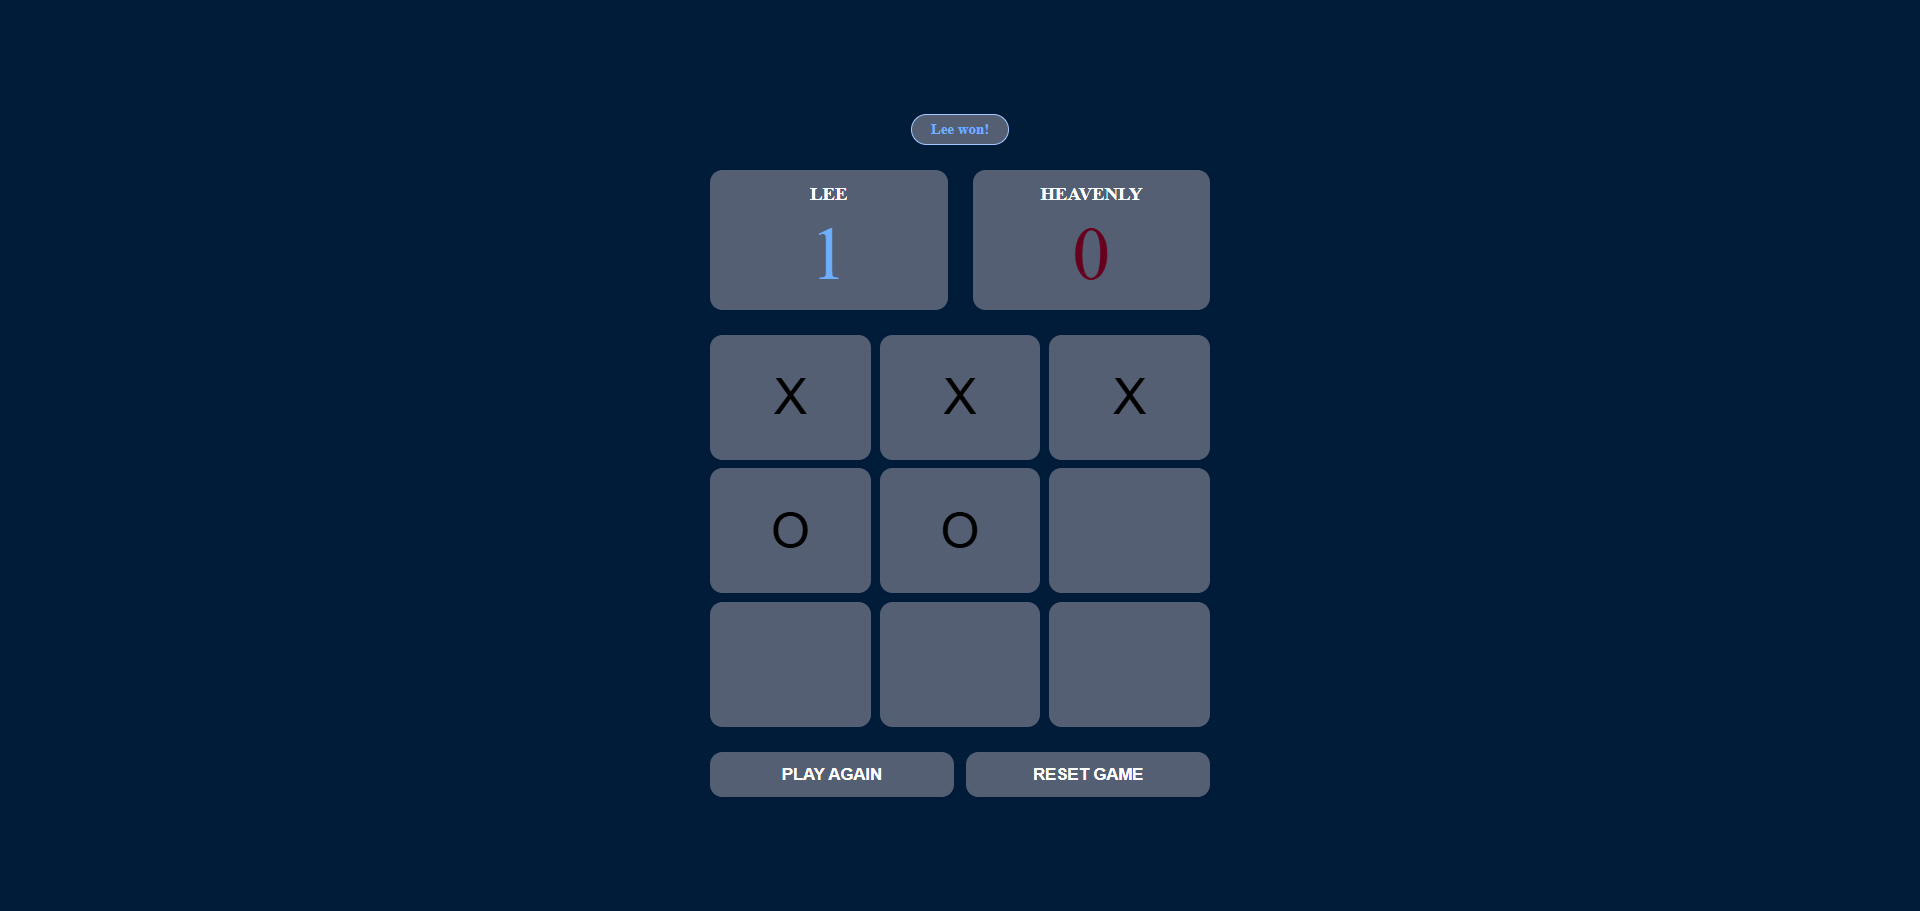
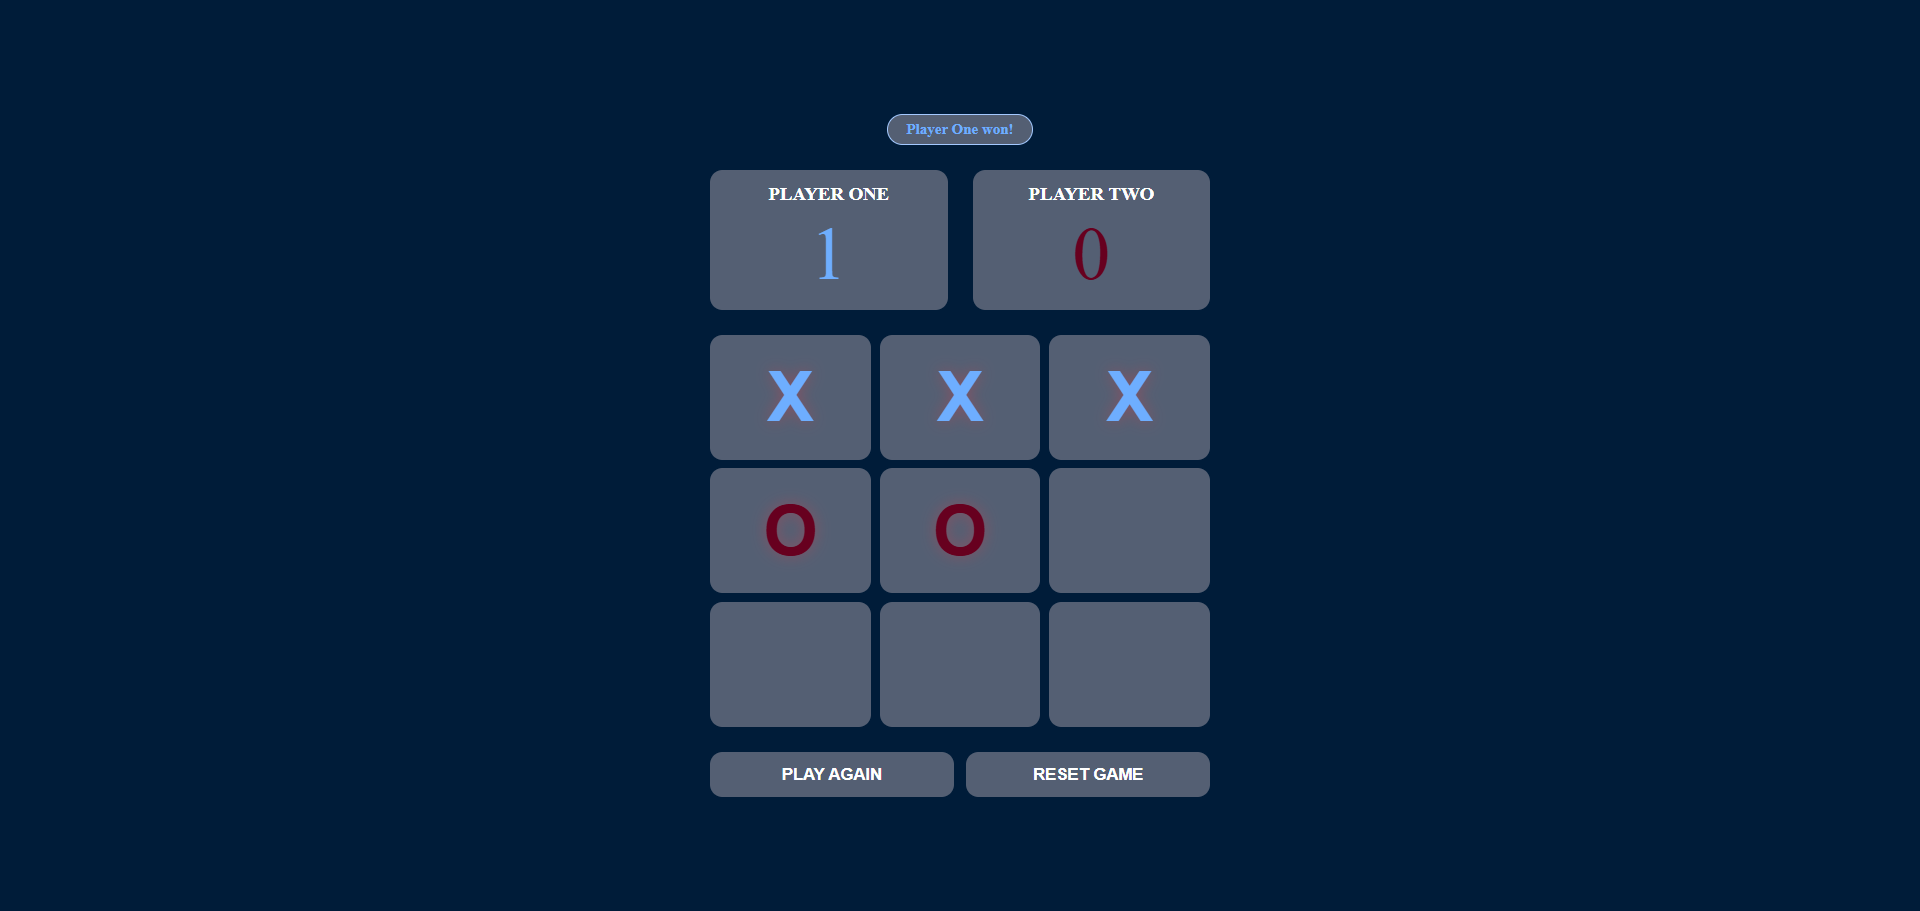
docs: Update link with vercel and project image

diff --git a/README.md b/README.md
@@ -5,7 +5,7 @@ A project where I can use my recently gained knowledge about closures, factory f
 ![Project Image](/image.png)
 
 ## Live Page
-[Live Page](https://markleejanalipio.github.io/tic-tac-toe/)
+[Live Page](https://tic-tac-toe-zeta-eight-51.vercel.app/?Player-one-name=&Player-two-name=#)
 
 ## Pseudocode
 1. CREATE a factory function for the gameboard